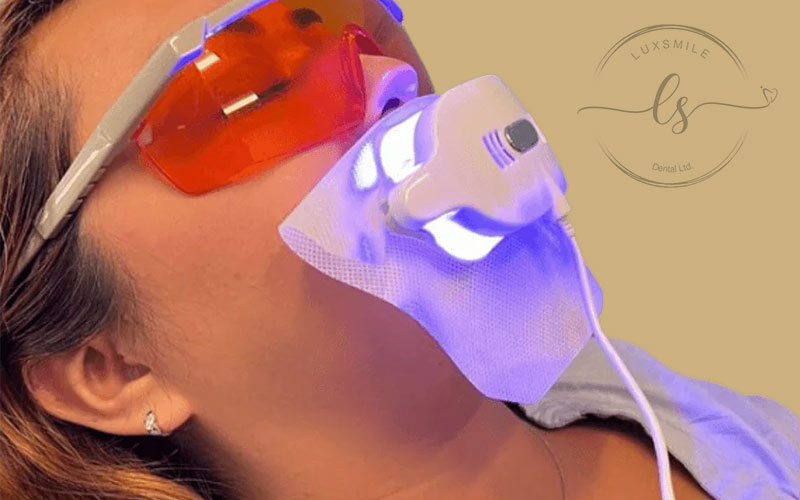
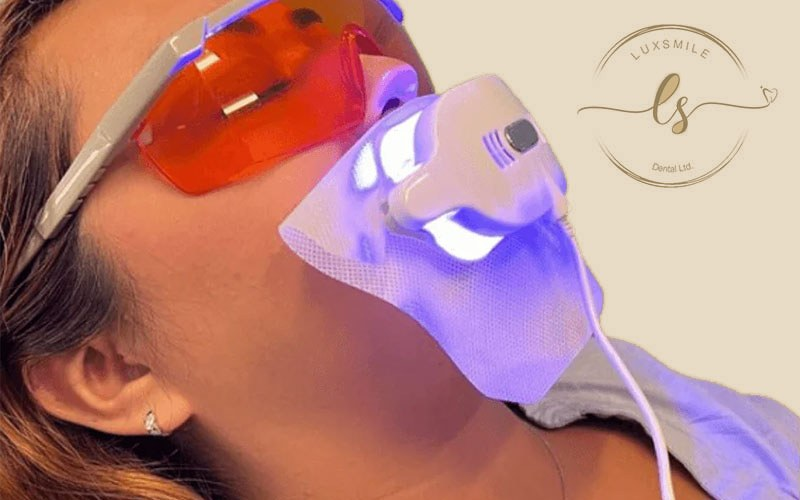
Whitening page: own LED light photo with softer background shown whole; gold-necklace smile moved up, eyes-closed smile removed

Changed region(s): [[0.5, 0.0, 1.0, 0.84]]

diff --git a/teeth-whitening.html b/teeth-whitening.html
@@ -132,7 +132,7 @@
 	</section>
 
 	<div class="svc-gallery single">
-		<img src="images/whitening-smile-soft.jpg" alt="Woman smiling softly with eyes closed" loading="lazy">
+		<img src="images/whitening-smile-gold-necklace.jpg" alt="Smiling woman with long blonde hair and a gold necklace" loading="lazy">
 	</div>
 
 	<section class="svc-section alt">
@@ -165,7 +165,7 @@
 	</section>
 
 	<section class="svc-section svc-split reverse">
-		<img src="images/whitening-led-light.jpg" alt="Client wearing protective glasses during in-office whitening with a professional LED light" loading="lazy">
+		<img class="fit" src="images/whitening-led-light.jpg" alt="Client wearing protective glasses during in-office whitening with a professional LED light" loading="lazy">
 		<div class="text">
 			<h2>In-office whitening, under a professional light</h2>
 			<div class="rule"></div>
@@ -174,21 +174,18 @@
 		</div>
 	</section>
 
-	<section class="svc-section svc-split">
-		<div class="text">
-			<h2>Is whitening right for you?</h2>
-			<div class="rule"></div>
-			<p>Professional whitening, also called teeth bleaching, lightens the natural colour of tooth enamel. It is often used for staining from coffee, tea, red wine or natural darkening over time.</p>
-			<p>It may not be recommended, or may need to wait, if you:</p>
-			<ul class="svc-list">
-				<li>are pregnant or breastfeeding</li>
-				<li>have untreated cavities, or gum disease that needs care first</li>
-				<li>have significant tooth sensitivity or gum recession</li>
-				<li>mainly want to change the colour of crowns, veneers or fillings, which do not whiten</li>
-			</ul>
-			<p>If whitening isn't right for you, we'll tell you honestly at your assessment and talk through other options.</p>
-		</div>
-		<img src="images/whitening-smile-gold-necklace.jpg" alt="Smiling woman with long blonde hair" loading="lazy">
+	<section class="svc-section">
+		<h2>Is whitening right for you?</h2>
+		<div class="rule"></div>
+		<p>Professional whitening, also called teeth bleaching, lightens the natural colour of tooth enamel. It is often used for staining from coffee, tea, red wine or natural darkening over time.</p>
+		<p>It may not be recommended, or may need to wait, if you:</p>
+		<ul class="svc-list">
+			<li>are pregnant or breastfeeding</li>
+			<li>have untreated cavities, or gum disease that needs care first</li>
+			<li>have significant tooth sensitivity or gum recession</li>
+			<li>mainly want to change the colour of crowns, veneers or fillings, which do not whiten</li>
+		</ul>
+		<p>If whitening isn't right for you, we'll tell you honestly at your assessment and talk through other options.</p>
 	</section>
 
 	<section class="svc-section alt">

diff --git a/css/service-page.css b/css/service-page.css
@@ -146,3 +146,5 @@ h1, h2, h3 { font-family: 'Playfair Display', serif; }
 .svc-gallery img { width: 100%; aspect-ratio: 4 / 3; object-fit: cover; border: 1px solid rgba(204,177,128,0.8); outline: 1px solid rgba(204,177,128,0.5); outline-offset: 8px; }
 @media (max-width: 767px) { .svc-gallery { grid-template-columns: 1fr; gap: 24px; padding: 0 16px 36px; } }
 .svc-gallery.single { grid-template-columns: 1fr; max-width: 640px; }
+/* Show the whole photo (no cropping), a little smaller than the text column */
+.svc-split img.fit { aspect-ratio: auto; object-fit: contain; max-width: 440px; justify-self: center; }
